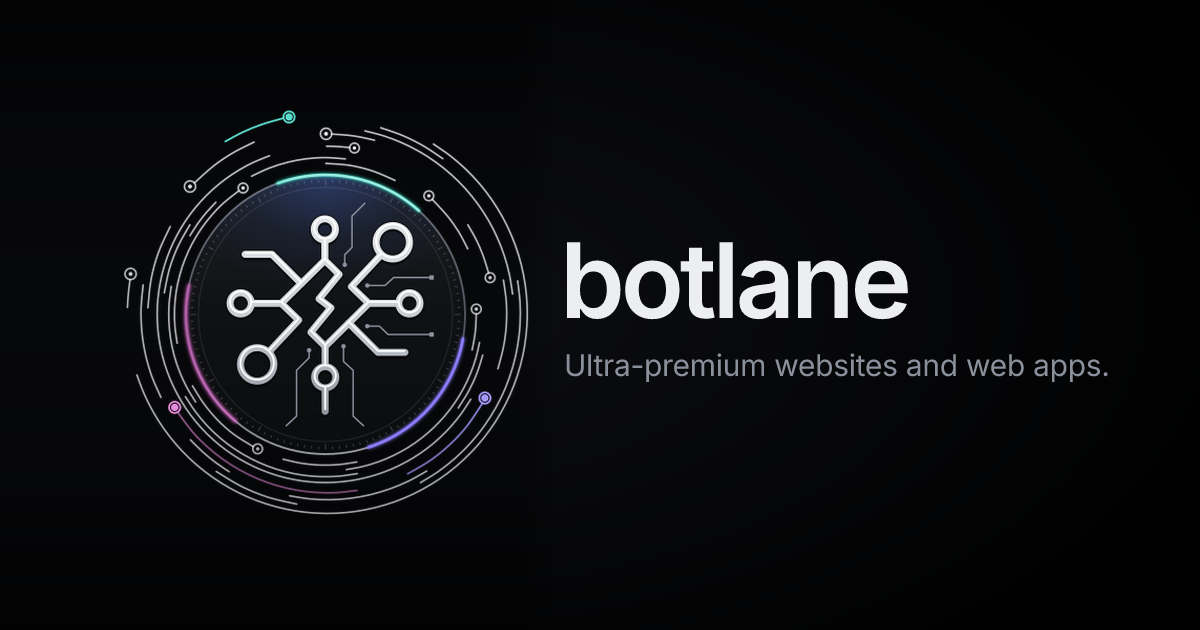
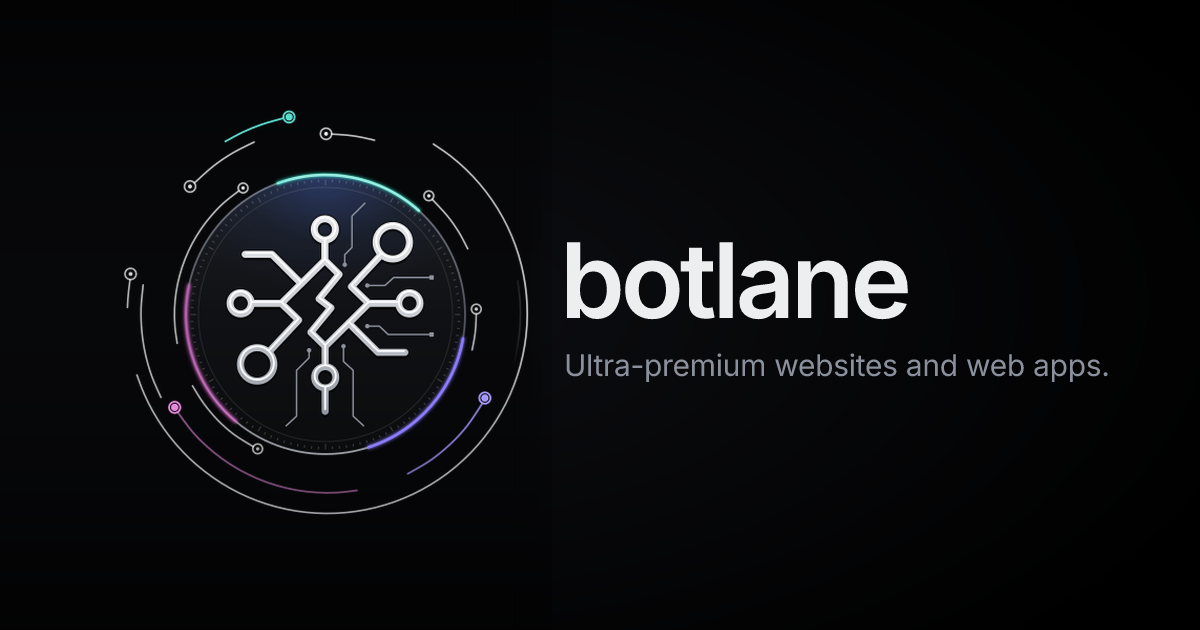
Thin the seal's rings from 32 arcs to 12
Claude-Session: https://claude.ai/code/session_01U614ADp9nbGW9D51g8CnAr

diff --git a/src/components/site/botlane-seal.tsx b/src/components/site/botlane-seal.tsx
@@ -13,12 +13,12 @@ const LINE = 18.92     // the bolt's line width
 const ICON = "M-1.7 -199.3L-1.7 -145.1L36.5 -107.3L-17.2 -41.9L14.6 -17.8L-39.1 47.5L-0.9 85.3L-0.9 139.5M-0.9 196.3L-0.9 259.1M-1.7 -145.1L-118.2 -29.9L-198.6 -29.9M-0.9 85.3L115.7 -29.9L196.1 -29.9M-118.2 -29.9L-71.8 14.8L-152.2 100.8M115.7 -29.9L69.2 -74.6L149.6 -160.6M-215.0 -161.0L-143.2 -161.0L-64.5 -82.3M212.4 101.3L140.6 101.3L61.9 22.6M-30.1 -227.7a28.4 28.4 0 1 0 56.8 0a28.4 28.4 0 1 0 -56.8 0ZM-29.2 167.9a28.4 28.4 0 1 0 56.8 0a28.4 28.4 0 1 0 -56.8 0ZM-255.4 -29.9a28.4 28.4 0 1 0 56.8 0a28.4 28.4 0 1 0 -56.8 0ZM196.1 -29.9a28.4 28.4 0 1 0 56.8 0a28.4 28.4 0 1 0 -56.8 0ZM-227.5 133.5a44.7 44.7 0 1 0 89.4 0a44.7 44.7 0 1 0 -89.4 0ZM135.4 -193.3a44.7 44.7 0 1 0 89.4 0a44.7 44.7 0 1 0 -89.4 0Z"
 const BOLT = "M-1.7 -145.1L36.5 -107.3L-17.2 -41.9L14.6 -17.8L-39.1 47.5L-0.9 85.3"  // the spine's zigzag alone, for the tiny size
 const TRACES = "M105.3 -297.8L70.9 -263.4L70.9 -179.5L51.6 -160.2L51.6 -133.1M283.8 -99.1L182.7 -99.1L159.1 -77.6L111.8 -77.6M283.8 53.5L167.7 53.5L144.0 31.2L111.8 31.2M-105.3 297.8L-77.4 272.0L-77.4 149.4L-43.9 115.9L-43.9 95.7M101.9 297.8L74.0 272.0L74.0 149.4L48.2 125.8L48.2 84.9"
-const RINGS = "M147.9 -499.6C157.6 -496.1 187.4 -486.9 206.4 -478.9C225.4 -470.8 244.1 -461.4 262.0 -451.1C279.9 -440.8 305.3 -422.6 313.9 -416.9M105.8 -491.2C114.3 -489.0 139.8 -483.1 156.4 -477.8C173.0 -472.5 189.4 -466.2 205.3 -459.1C221.2 -452.1 236.9 -444.2 252.0 -435.5C267.1 -426.8 281.8 -417.3 296.0 -407.0C310.1 -396.8 323.8 -385.8 336.7 -374.2C349.7 -362.5 362.2 -350.1 373.9 -337.2C385.6 -324.3 396.7 -310.6 406.9 -296.5C417.2 -282.5 426.8 -267.8 435.6 -252.7C444.4 -237.6 452.4 -222.0 459.5 -206.0C466.7 -190.1 473.0 -173.7 478.5 -157.2C483.9 -140.6 488.5 -123.6 492.2 -106.6C495.9 -89.5 499.2 -63.5 500.6 -54.8M16.5 -482.7C23.7 -482.2 46.8 -481.1 60.0 -479.7C73.3 -478.3 84.0 -476.6 95.8 -474.3C107.6 -472.1 125.2 -467.6 131.1 -466.3M-350.8 -351.9C-342.3 -359.5 -316.8 -384.0 -299.6 -397.4C-282.4 -410.9 -265.5 -422.0 -247.4 -432.7C-229.3 -443.3 -200.5 -456.5 -191.1 -461.3M289.0 -455.9C296.4 -450.7 319.3 -435.9 333.7 -424.8C348.0 -413.6 361.8 -401.7 375.0 -389.2C388.1 -376.6 400.6 -363.3 412.4 -349.5C424.2 -335.7 435.3 -321.2 445.6 -306.2C455.9 -291.2 465.5 -275.7 474.3 -259.7C483.0 -243.8 490.9 -227.3 498.0 -210.6C505.0 -193.8 511.3 -176.6 516.6 -159.3C521.9 -141.9 526.3 -124.2 529.8 -106.4C533.3 -88.5 535.9 -70.5 537.6 -52.4C539.3 -34.3 540.0 -16.1 539.9 2.1C539.7 20.2 538.6 38.4 536.6 56.5C534.6 74.5 531.6 92.5 527.8 110.2C524.0 127.9 519.2 145.5 513.6 162.7C508.0 179.9 501.5 196.9 494.2 213.5C486.9 230.0 478.7 246.3 469.7 262.0C460.8 277.7 451.0 293.0 440.5 307.7C430.0 322.4 418.8 336.6 406.9 350.2C395.0 363.7 382.3 376.8 369.1 389.0C355.9 401.3 342.0 413.0 327.7 423.8C313.3 434.7 298.4 444.9 283.0 454.2C267.7 463.6 251.7 472.2 235.5 480.0C219.3 487.7 202.7 494.7 185.8 500.8C168.9 506.8 151.6 512.1 134.2 516.4C116.8 520.8 99.1 524.2 81.4 526.8C63.7 529.4 45.7 531.0 27.8 531.8C10.0 532.6 -8.0 532.5 -25.9 531.4C-43.7 530.4 -61.6 528.5 -79.3 525.7C-96.9 522.9 -114.5 519.2 -131.7 514.6C-149.0 510.1 -166.1 504.6 -182.8 498.4C-199.5 492.1 -216.0 485.0 -232.0 477.1C-248.0 469.2 -263.6 460.5 -278.7 451.0C-293.8 441.6 -308.5 431.3 -322.6 420.4C-336.7 409.6 -350.3 397.9 -363.3 385.7C-376.2 373.4 -388.6 360.5 -400.2 347.0C-411.8 333.5 -422.8 319.4 -433.1 304.9C-443.3 290.3 -452.9 275.2 -461.6 259.7C-470.4 244.2 -478.4 228.1 -485.5 211.8C-492.7 195.5 -501.4 170.2 -504.6 161.9M3.0 -450.2C6.0 -450.2 15.0 -450.2 21.0 -450.0C27.0 -449.8 31.8 -449.6 39.1 -449.0C46.3 -448.5 60.3 -447.0 64.6 -446.7M388.5 226.9C384.5 233.1 372.9 252.0 364.2 264.0C355.6 275.9 346.3 287.5 336.5 298.5C326.6 309.5 316.3 320.1 305.4 330.1C294.6 340.2 283.2 349.7 271.4 358.6C259.6 367.5 247.4 375.8 234.8 383.5C222.2 391.2 209.2 398.3 195.9 404.8C182.6 411.2 169.0 417.0 155.1 422.1C141.3 427.2 127.1 431.6 112.8 435.3C98.5 439.0 84.0 442.0 69.4 444.3C54.9 446.6 40.1 448.1 25.4 449.0C10.6 449.8 -4.2 449.9 -18.9 449.3C-33.7 448.7 -48.5 447.4 -63.1 445.3C-77.7 443.2 -92.3 440.5 -106.6 437.0C-120.9 433.5 -135.2 429.3 -149.1 424.4C-163.0 419.5 -176.8 413.9 -190.2 407.7C-203.5 401.5 -216.7 394.5 -229.4 387.0C-242.1 379.5 -254.5 371.3 -266.4 362.6C-278.3 353.9 -289.8 344.5 -300.8 334.7C-311.8 324.8 -322.4 314.4 -332.3 303.5C-342.3 292.6 -351.8 281.1 -360.6 269.3C-369.5 257.5 -377.8 245.2 -385.4 232.5C-393.1 219.9 -400.1 206.8 -406.5 193.5C-412.8 180.2 -418.6 166.5 -423.6 152.6C-428.6 138.7 -433.0 124.5 -436.6 110.2C-440.2 95.8 -443.2 81.3 -445.4 66.7C-447.6 52.1 -449.0 37.3 -449.8 22.5C-450.5 7.8 -450.6 -7.1 -449.9 -21.9C-449.2 -36.6 -447.7 -51.4 -445.6 -66.0C-443.4 -80.7 -440.5 -95.2 -436.9 -109.6C-433.3 -123.9 -429.0 -138.1 -424.1 -152.1C-419.1 -166.0 -413.4 -179.7 -407.0 -193.1C-400.7 -206.4 -393.7 -219.5 -386.1 -232.2C-378.5 -244.9 -370.2 -257.2 -361.4 -269.1C-352.5 -280.9 -343.1 -292.4 -333.1 -303.3C-323.2 -314.3 -312.6 -324.7 -301.7 -334.6C-290.7 -344.5 -279.1 -353.9 -267.2 -362.7C-255.3 -371.4 -242.9 -379.7 -230.2 -387.2C-217.5 -394.8 -204.4 -401.7 -191.0 -408.0C-177.6 -414.2 -156.8 -421.9 -149.9 -424.7M-198.0 -369.9C-190.1 -373.5 -167.0 -385.4 -150.9 -391.6C-134.8 -397.8 -118.2 -403.1 -101.5 -407.3C-84.7 -411.5 -67.6 -414.7 -50.5 -416.8C-33.3 -418.9 -15.9 -419.9 1.3 -419.8C18.6 -419.7 44.4 -416.9 53.0 -416.3M1.0 -404.2C11.6 -403.3 43.8 -402.5 64.8 -399.1C85.8 -395.7 106.8 -390.4 126.9 -383.7C147.1 -377.0 176.1 -363.0 185.9 -358.8M-396.8 77.0C-397.8 69.4 -401.8 46.7 -402.9 31.5C-404.1 16.2 -404.4 0.8 -403.9 -14.4C-403.3 -29.7 -401.9 -45.0 -399.6 -60.2C-397.3 -75.3 -394.1 -90.3 -390.1 -105.1C-386.2 -119.8 -381.3 -134.4 -375.7 -148.6C-370.1 -162.9 -363.6 -176.8 -356.4 -190.3C-349.2 -203.8 -341.2 -216.9 -332.6 -229.5C-323.9 -242.1 -314.5 -254.3 -304.4 -265.8C-294.4 -277.3 -284.6 -287.8 -272.4 -298.7C-260.2 -309.6 -238.2 -325.9 -231.4 -331.3M285.5 -308.1C292.1 -300.9 313.4 -279.2 325.2 -264.9C336.9 -250.5 346.5 -237.0 355.8 -222.1C365.0 -207.3 376.5 -183.5 380.6 -175.8M-362.7 -210.8C-359.3 -216.1 -349.5 -232.4 -342.2 -242.7C-335.0 -252.9 -327.2 -262.9 -319.0 -272.6C-310.9 -282.2 -297.6 -295.7 -293.3 -300.3M-431.3 -58.0C-429.0 -68.7 -423.7 -101.0 -417.6 -121.8C-411.4 -142.6 -403.7 -163.2 -394.5 -182.9C-385.4 -202.6 -368.2 -230.4 -362.9 -239.9M380.9 -240.0C384.6 -233.4 396.3 -214.2 403.0 -200.7C409.7 -187.3 415.4 -174.5 421.0 -159.5C426.6 -144.5 434.0 -119.0 436.6 -110.9M-475.1 -18.0C-473.7 -30.5 -471.5 -68.5 -466.8 -93.2C-462.1 -117.9 -455.5 -142.6 -446.9 -166.2C-438.4 -189.9 -420.7 -223.8 -415.5 -235.3M476.2 -92.0C477.5 -82.1 482.6 -52.4 483.9 -32.5C485.2 -12.5 485.2 7.6 483.9 27.6C482.6 47.5 480.0 67.5 476.2 87.1C472.5 106.7 463.8 135.4 461.3 145.1M514.1 -90.0C515.2 -80.4 519.5 -51.4 520.6 -32.1C521.6 -12.7 521.6 6.9 520.5 26.2C519.4 45.6 517.2 65.0 513.9 84.1C510.7 103.2 506.3 122.2 501.0 140.8C495.6 159.4 489.1 177.8 481.7 195.7C474.3 213.6 465.8 231.1 456.5 248.0C447.1 264.9 436.7 281.4 425.5 297.1C414.4 312.9 402.2 328.1 389.3 342.4C376.5 356.8 362.7 370.5 348.3 383.4C333.9 396.2 318.7 408.2 303.0 419.4C287.3 430.5 262.2 444.9 254.0 450.0M-529.9 -19.0C-529.7 -22.9 -529.3 -34.5 -528.7 -42.2C-528.2 -50.0 -527.5 -56.8 -526.5 -65.4C-525.6 -73.9 -523.5 -88.9 -522.9 -93.6M-440.4 221.7C-444.5 212.2 -457.9 184.3 -464.9 165.0C-471.8 145.6 -477.5 125.6 -482.0 105.6C-486.4 85.5 -489.6 65.0 -491.5 44.5C-493.4 24.0 -494.1 3.2 -493.5 -17.3C-492.9 -37.9 -488.8 -68.7 -487.9 -79.0M-347.7 233.8C-351.7 227.2 -364.4 207.8 -371.5 194.2C-378.7 180.6 -385.2 166.5 -390.8 152.2C-396.4 137.9 -401.3 123.1 -405.3 108.3C-409.2 93.4 -412.4 78.2 -414.7 63.0C-417.0 47.8 -418.5 32.4 -419.1 17.0C-419.8 1.6 -419.5 -13.9 -418.5 -29.2C-417.4 -44.6 -413.7 -67.5 -412.8 -75.1M403.4 -1.5C403.1 4.5 402.8 23.5 401.9 34.5C401.1 45.6 399.8 54.8 398.2 64.8C396.6 74.9 393.2 89.8 392.3 94.8M412.2 75.0C410.5 82.2 406.2 103.7 402.1 117.7C398.0 131.7 393.1 145.6 387.5 159.1C382.0 172.6 375.7 185.8 368.8 198.7C361.8 211.5 354.2 224.1 346.0 236.1C337.7 248.2 328.8 259.9 319.4 271.0C309.9 282.1 299.8 292.8 289.3 302.9C278.7 313.0 267.6 322.5 256.0 331.5C244.5 340.4 232.4 348.7 220.0 356.4C207.6 364.1 194.7 371.1 181.5 377.4C168.4 383.7 154.8 389.4 141.1 394.3C127.3 399.2 113.3 403.5 99.1 406.9C84.9 410.4 63.2 413.7 56.0 415.0M420.6 108.9C418.0 117.2 411.0 142.4 404.6 158.5C398.3 174.7 390.9 190.6 382.7 205.8C374.4 221.1 359.7 242.7 355.1 250.1M-193.1 353.7C-201.9 348.2 -229.8 332.3 -245.7 320.4C-261.5 308.6 -275.1 296.1 -288.4 282.6C-301.6 269.0 -313.9 254.3 -325.2 239.0C-336.5 223.8 -350.8 199.0 -355.9 190.9M85.0 425.8C76.9 426.9 52.8 431.2 36.6 432.6C20.4 433.9 4.1 434.4 -12.2 433.9C-28.4 433.5 -44.7 432.1 -60.8 429.8C-76.9 427.6 -92.9 424.4 -108.6 420.3C-124.4 416.3 -140.0 411.3 -155.2 405.5C-170.3 399.8 -185.3 393.1 -199.7 385.6C-214.2 378.2 -228.3 369.9 -241.8 360.8C-255.3 351.8 -268.4 342.0 -280.8 331.5C-293.2 321.0 -305.1 309.7 -316.3 297.9C-327.4 286.1 -338.0 273.5 -347.7 260.5C-357.5 247.5 -370.3 226.6 -374.8 219.9M-257.9 420.8C-264.0 416.6 -283.0 404.4 -294.9 395.4C-306.8 386.5 -318.3 376.9 -329.4 366.9C-340.5 356.9 -356.1 340.7 -361.4 335.4M83.9 394.6C75.7 395.8 51.2 400.3 34.7 401.7C18.2 403.1 1.5 403.5 -15.0 402.9C-31.6 402.3 -48.2 400.7 -64.5 398.1C-80.9 395.5 -105.0 389.1 -113.1 387.3M270.9 418.9C262.9 423.3 239.4 437.4 223.0 445.4C206.6 453.3 189.7 460.4 172.5 466.5C155.4 472.6 137.8 477.8 120.2 482.1C102.5 486.3 84.5 489.6 66.5 491.8C48.5 494.1 30.2 495.4 12.1 495.6C-6.0 495.9 -24.3 495.1 -42.3 493.4C-60.3 491.6 -87.1 486.5 -96.0 485.1M-77.0 507.3C-89.7 504.3 -128.2 497.1 -152.9 489.2C-177.6 481.3 -202.0 471.4 -225.2 459.9C-248.4 448.4 -280.9 426.7 -292.1 420.1"
+const RINGS = "M-396.8 77.0C-397.8 69.4 -401.8 46.7 -402.9 31.5C-404.1 16.2 -404.4 0.8 -403.9 -14.4C-403.3 -29.7 -401.9 -45.0 -399.6 -60.2C-397.3 -75.3 -394.1 -90.3 -390.1 -105.1C-386.2 -119.8 -381.3 -134.4 -375.7 -148.6C-370.1 -162.9 -363.6 -176.8 -356.4 -190.3C-349.2 -203.8 -341.2 -216.9 -332.6 -229.5C-323.9 -242.1 -314.5 -254.3 -304.4 -265.8C-294.4 -277.3 -284.6 -287.8 -272.4 -298.7C-260.2 -309.6 -238.2 -325.9 -231.4 -331.3M-193.1 353.7C-201.9 348.2 -229.8 332.3 -245.7 320.4C-261.5 308.6 -275.1 296.1 -288.4 282.6C-301.6 269.0 -313.9 254.3 -325.2 239.0C-336.5 223.8 -350.8 199.0 -355.9 190.9M-350.8 -351.9C-342.3 -359.5 -316.8 -384.0 -299.6 -397.4C-282.4 -410.9 -265.5 -422.0 -247.4 -432.7C-229.3 -443.3 -200.5 -456.5 -191.1 -461.3M285.5 -308.1C292.1 -300.9 313.4 -279.2 325.2 -264.9C336.9 -250.5 346.5 -237.0 355.8 -222.1C365.0 -207.3 376.5 -183.5 380.6 -175.8M16.5 -482.7C23.7 -482.2 46.8 -481.1 60.0 -479.7C73.3 -478.3 84.0 -476.6 95.8 -474.3C107.6 -472.1 125.2 -467.6 131.1 -466.3M403.4 -1.5C403.1 4.5 402.8 23.5 401.9 34.5C401.1 45.6 399.8 54.8 398.2 64.8C396.6 74.9 393.2 89.8 392.3 94.8M-529.9 -19.0C-529.7 -22.9 -529.3 -34.5 -528.7 -42.2C-528.2 -50.0 -527.5 -56.8 -526.5 -65.4C-525.6 -73.9 -523.5 -88.9 -522.9 -93.6M289.0 -455.9C296.4 -450.7 319.3 -435.9 333.7 -424.8C348.0 -413.6 361.8 -401.7 375.0 -389.2C388.1 -376.6 400.6 -363.3 412.4 -349.5C424.2 -335.7 435.3 -321.2 445.6 -306.2C455.9 -291.2 465.5 -275.7 474.3 -259.7C483.0 -243.8 490.9 -227.3 498.0 -210.6C505.0 -193.8 511.3 -176.6 516.6 -159.3C521.9 -141.9 526.3 -124.2 529.8 -106.4C533.3 -88.5 535.9 -70.5 537.6 -52.4C539.3 -34.3 540.0 -16.1 539.9 2.1C539.7 20.2 538.6 38.4 536.6 56.5C534.6 74.5 531.6 92.5 527.8 110.2C524.0 127.9 519.2 145.5 513.6 162.7C508.0 179.9 501.5 196.9 494.2 213.5C486.9 230.0 478.7 246.3 469.7 262.0C460.8 277.7 451.0 293.0 440.5 307.7C430.0 322.4 418.8 336.6 406.9 350.2C395.0 363.7 382.3 376.8 369.1 389.0C355.9 401.3 342.0 413.0 327.7 423.8C313.3 434.7 298.4 444.9 283.0 454.2C267.7 463.6 251.7 472.2 235.5 480.0C219.3 487.7 202.7 494.7 185.8 500.8C168.9 506.8 151.6 512.1 134.2 516.4C116.8 520.8 99.1 524.2 81.4 526.8C63.7 529.4 45.7 531.0 27.8 531.8C10.0 532.6 -8.0 532.5 -25.9 531.4C-43.7 530.4 -61.6 528.5 -79.3 525.7C-96.9 522.9 -114.5 519.2 -131.7 514.6C-149.0 510.1 -166.1 504.6 -182.8 498.4C-199.5 492.1 -216.0 485.0 -232.0 477.1C-248.0 469.2 -263.6 460.5 -278.7 451.0C-293.8 441.6 -308.5 431.3 -322.6 420.4C-336.7 409.6 -350.3 397.9 -363.3 385.7C-376.2 373.4 -388.6 360.5 -400.2 347.0C-411.8 333.5 -422.8 319.4 -433.1 304.9C-443.3 290.3 -452.9 275.2 -461.6 259.7C-470.4 244.2 -478.4 228.1 -485.5 211.8C-492.7 195.5 -501.4 170.2 -504.6 161.9M-440.4 221.7C-444.5 212.2 -457.9 184.3 -464.9 165.0C-471.8 145.6 -477.5 125.6 -482.0 105.6C-486.4 85.5 -489.6 65.0 -491.5 44.5C-493.4 24.0 -494.1 3.2 -493.5 -17.3C-492.9 -37.9 -488.8 -68.7 -487.9 -79.0"
 const WORD = "M357 12Q301.2 12 259.4 -12.1Q217.6 -36.2 194.6 -79.2L191.6 0H70.4V-710H198.4V-458.4Q219.6 -494.6 260.8 -520.3Q302 -546 357 -546Q425.8 -546 476.2 -511.6Q526.6 -477.2 554.2 -414.6Q581.8 -352 581.8 -267Q581.8 -182 554.2 -119.4Q526.6 -56.8 476.2 -22.4Q425.8 12 357 12ZM327.6 -91.6Q383 -91.6 416.2 -138.2Q449.4 -184.8 449.4 -267Q449.4 -349.8 416.6 -396.1Q383.8 -442.4 328.8 -442.4Q287.8 -442.4 258.4 -421.7Q229 -401 213.7 -361.8Q198.4 -322.6 198.4 -267Q198.4 -213 213.7 -173.5Q229 -134 258.1 -112.8Q287.2 -91.6 327.6 -91.6ZM877.8 12Q798.8 12 739.6 -22.4Q680.4 -56.8 647.8 -119.7Q615.2 -182.6 615.2 -267Q615.2 -352 647.8 -414.4Q680.4 -476.8 739.6 -511.4Q798.8 -546 877.8 -546Q956.8 -546 1015.7 -511.4Q1074.6 -476.8 1107.2 -414.4Q1139.8 -352 1139.8 -267Q1139.8 -182.6 1107.2 -119.7Q1074.6 -56.8 1015.7 -22.4Q956.8 12 877.8 12ZM877.8 -91.6Q939.6 -91.6 973.5 -137.9Q1007.4 -184.2 1007.4 -267Q1007.4 -349.4 973.5 -395.9Q939.6 -442.4 877.8 -442.4Q816 -442.4 781.8 -395.9Q747.6 -349.4 747.6 -267Q747.6 -184.2 781.8 -137.9Q816 -91.6 877.8 -91.6ZM1417.6 0Q1338 0 1300.5 -36.8Q1263 -73.6 1263 -152.8V-659.2H1391V-165.2Q1391 -127.6 1407.2 -113.4Q1423.4 -99.2 1456.8 -99.2H1532V0ZM1179.4 -434.8V-534H1532V-434.8ZM1714.4 0Q1655.6 0 1621 -30Q1586.4 -60 1586.4 -126.4V-710H1714.4V-139.4Q1714.4 -118.6 1724.7 -108.9Q1735 -99.2 1754.2 -99.2H1793.4V0ZM1992.6 12Q1909.4 12 1858.3 -26.4Q1807.2 -64.8 1807.2 -133.6Q1807.2 -203.2 1850.2 -242Q1893.2 -280.8 1980.6 -298L2158.2 -332.6Q2158.2 -389.6 2132.1 -418.2Q2106 -446.8 2055.4 -446.8Q2008.8 -446.8 1982.2 -425.5Q1955.6 -404.2 1946.4 -363.8L1816.2 -370.4Q1831.6 -454.6 1893.7 -500.3Q1955.8 -546 2055.4 -546Q2169.4 -546 2227.8 -488.7Q2286.2 -431.4 2286.2 -324.4V-129.8Q2286.2 -108.6 2293.5 -100.9Q2300.8 -93.2 2315.8 -93.2H2332.8V0Q2326.8 1.8 2313.4 3.1Q2300 4.4 2286.4 4.4Q2253.2 4.4 2227.3 -6.5Q2201.4 -17.4 2187 -43.5Q2172.6 -69.6 2172.6 -115.6L2184.2 -108Q2175.6 -72.8 2149.4 -45.5Q2123.2 -18.2 2083 -3.1Q2042.8 12 1992.6 12ZM2019 -81.2Q2061.6 -81.2 2092.7 -97.9Q2123.8 -114.6 2141 -144.9Q2158.2 -175.2 2158.2 -215.6V-245.6L2019.8 -217.6Q1977.4 -209.2 1958.5 -191.5Q1939.6 -173.8 1939.6 -145.6Q1939.6 -115 1960.3 -98.1Q1981 -81.2 2019 -81.2ZM2373.4 0V-534H2489.2L2494.2 -384.2L2478.6 -390.4Q2487 -446.2 2511.8 -480.3Q2536.6 -514.4 2572.9 -530.2Q2609.2 -546 2652.2 -546Q2711.2 -546 2751.5 -520.2Q2791.8 -494.4 2812.7 -448.9Q2833.6 -403.4 2833.6 -343.4V0H2705.6V-302.2Q2705.6 -347.2 2696.9 -378.3Q2688.2 -409.4 2667.8 -425.7Q2647.4 -442 2613 -442Q2561.6 -442 2531.5 -406.1Q2501.4 -370.2 2501.4 -302.2V0ZM3159.6 12Q3079.8 12 3021.1 -22.4Q2962.4 -56.8 2930.3 -119.7Q2898.2 -182.6 2898.2 -267Q2898.2 -351.4 2930.3 -413.8Q2962.4 -476.2 3020.5 -511.1Q3078.6 -546 3157.2 -546Q3233.4 -546 3290.6 -511.9Q3347.8 -477.8 3379.1 -413.8Q3410.4 -349.8 3410.4 -260V-231.4H3031Q3034.8 -160.8 3069.3 -125.6Q3103.8 -90.4 3161.2 -90.4Q3204 -90.4 3232.3 -109.5Q3260.6 -128.6 3272 -163.8L3402.8 -155.6Q3381.4 -78.2 3316.7 -33.1Q3252 12 3159.6 12ZM3031 -317.4H3277.6Q3273.6 -382.4 3240.9 -413.8Q3208.2 -445.2 3157.2 -445.2Q3105.8 -445.2 3072.3 -412.3Q3038.8 -379.4 3031 -317.4Z"
 const WORD_WIDTH = 3450
 const WORD_XHEIGHT = 534
 const UNITS = 1000
-const NODES = [[1.5, -483.5, 15], [77.5, -445.5, 13], [-362.5, -342.5, 15], [-220.5, -338.5, 13], [276.5, -317.5, 13], [440.5, -98.5, 13], [403.5, -14.5, 13], [-521.5, -108.5, 15], [-181.5, 359.5, 13]] as const
+const NODES = [[1.5, -483.5, 15], [-362.5, -342.5, 15], [-220.5, -338.5, 13], [276.5, -317.5, 13], [403.5, -14.5, 13], [-521.5, -108.5, 15], [-181.5, 359.5, 13]] as const
 // Three arcs of the rings, spaced about a third of a turn apart, that can each carry a lane. Each runs out to its own node.
 const SLOTS = [
   { arc: "M-268.0 -463.1C-260.0 -467.3 -236.5 -480.8 -220.1 -488.5C-203.7 -496.1 -187.7 -502.7 -169.8 -508.8C-151.8 -515.0 -121.8 -522.6 -112.2 -525.4", node: [-97.5, -528.5, 15], tail: [-268, -463.1] },
